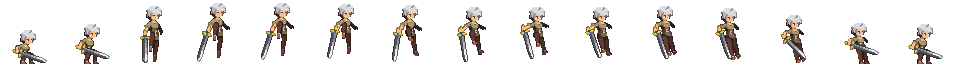
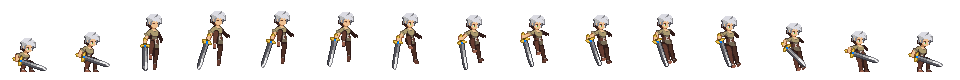
Added full jump animation

diff --git a/character.cpp b/character.cpp
@@ -5,6 +5,7 @@ character::character(){
     // Flags
     isMoving = false;
     isOnGround = false;
+    jumpCeiling = false;
     isInJump = false;
 
     // Animation variables
@@ -14,14 +15,14 @@ character::character(){
     stopCounter = {0.f};
     runningTime = {0.f};
     updateTime = {1.f / 8.f};
-    animCorretion = {0.f};
+    animCorrection = {0.f};
 
     // Collision variables
     paddingX = {65.f};
     paddingY = {50.f};
 
     // Gravity
-    gravity = {100.0f};
+    gravity = {200.0f};
 }
 
 // Character tick
@@ -38,7 +39,7 @@ void character::tick(float deltaTime){
 
     moveCharacter(deltaTime);
 
-    if(!isOnGround && !isInJump)
+    if(!isOnGround)
         applyGravity(deltaTime);
     else
         velocity = {};
@@ -51,9 +52,11 @@ void character::updateTex(){
     if (isMoving){
         actualTex = runTex;
         maxFrames = 8;
+        height = runTex.height;
     } else {
         actualTex = idleTex;
         maxFrames = 4;
+        height = idleTex.height;
     }
 
     width = actualTex.width / maxFrames;
@@ -62,7 +65,7 @@ void character::updateTex(){
 // Display character sprite in the window
 void character::renderCharacter(){
     Rectangle source{width * frame, 0.f, width * rightLeft, height};
-    Rectangle dest{worldPos.x - animCorretion, worldPos.y, scale * width, scale * height};
+    Rectangle dest{worldPos.x - animCorrection, worldPos.y, scale * width, scale * height};
     DrawTexturePro(actualTex, source, dest, Vector2{}, 0.f, WHITE);
 }
 
@@ -79,13 +82,29 @@ void character::updateFrame(float deltaTime){
 
 // Change texture direction
 void character::changeDirection(){
-    if(velocity.x < 0.f) {
-        rightLeft = -1.f;
-        animCorretion = 0.f;
-    } else if(velocity.x > 0.f) {
-        rightLeft = 1.f;
-        // Animation correction
-        animCorretion = width / 2;
+    if(isOnGround){
+        if(velocity.x < 0.f) {
+        // On ground left
+            rightLeft = -1.f;
+            animCorrection = 0.f;
+        } else if(velocity.x > 0.f) {
+        // On ground right
+            rightLeft = 1.f;
+            animCorrection = width / 2;
+        }
+    } 
+    
+    if(isInJump){
+        animCorrection = width / 4;
+        // During jump left
+        if(velocity.x < 0.f) {
+            rightLeft = -1.f;
+            animCorrection = width / 4;
+        // During jump right
+        } else if(velocity.x > 0.f || rightLeft == 1.f) {
+            rightLeft = 1.f;
+            animCorrection = -width / 2.5;
+        }
     }
 }
 
@@ -94,7 +113,7 @@ void character::animChangeDelay(float deltaTime){
     stopCounter += deltaTime;
     if(stopCounter >= stopDelay){
         isMoving = false;
-        animCorretion = 0.f;
+        animCorrection = 0.f;
     }
 }
 
@@ -128,7 +147,7 @@ void character::moveCharacter(float deltaTime){
 
         // Update character's variables
         stopCounter = 0.f;
-        isMoving = true;
+        if(velocity.x != 0) isMoving = true;
     } else 
         animChangeDelay(deltaTime);
 
@@ -179,14 +198,17 @@ void character::checkTopCollision(Rectangle terrainCollision){
 
     // Check kollision with terrain and top edge
     if(CheckCollisionRecs(terrainCollision, getCollisionRec()) && 
-        characterBottom <= terrainTop && !isInJump){
+        characterBottom <= terrainTop){
             isOnGround = true;
+            isInJump = false;
+            jumpCeiling = false;
             snapToGround(terrainCollision);
-        }
-    else 
-        isOnGround = false;
+        } else 
+            isOnGround = false;
 
     DrawText(TextFormat("Ground: %s", isOnGround ? "TRUE" : "FALSE"), 0,0,20, RED);
+    DrawText(TextFormat("Ground: %2.f", characterBottom), 0,80,20, RED);
+    DrawText(TextFormat("Ground: %2.f", terrainTop), 0,100,20, RED);
 }
 
 // Return charater world position

diff --git a/player.cpp b/player.cpp
@@ -31,69 +31,57 @@ player::player(float winWidth, float winHeight) :
 
 // Player tick
 void player::tick(float deltaTime){
-    bool wasOnGround = isOnGround;
 
     // Keyboard movement
     if(IsKeyDown(KEY_A)) velocity.x -= 1.f;
     if(IsKeyDown(KEY_D)) velocity.x += 1.f;
-    if(IsKeyDown(KEY_W) && isOnGround) isInJump = true;
+    if(IsKeyDown(KEY_W) && isOnGround) {
+        isInJump = true;
+        frame = 0;
+    }
 
-    if(isInJump) jump(deltaTime);
+    if(isInJump && !jumpCeiling) jump(deltaTime);
     updateTex();
     character::tick(deltaTime);
-
-    if (!wasOnGround && isOnGround)
-        landingTimer = 0.f;
 }
 
 void player::updateTex(){
-    if(!isOnGround){
-        actualTex = fallTex;
-        maxFrames = 3;
-        frame = 0;
-        width = actualTex.width / maxFrames;
-        landingTimer = 0.f;
 
-    } else if (landingTimer < landingDuration) {
-        actualTex = fallTex;
-        maxFrames = 3;
-        frame = static_cast<int>((landingTimer / landingDuration) * 2.f);
-
-        if(frame >  2) frame = 2;
-
-        width = actualTex.width / maxFrames;
-        landingTimer += GetFrameTime();
-
+    if(isInJump && !isOnGround){
+        if(!isOnGround){
+            actualTex = jumpTex;
+            maxFrames = 15;
+            height = jumpTex.height;
+            width = jumpTex.width / maxFrames;
+        }
     } else
         character::updateTex();
 }
 
 // Fall collision
 Rectangle player::getCollisionRec(){
-        if(actualTex.id == fallTex.id)
+        if(actualTex.id == jumpTex.id)
             characterRec = {
-                worldPos.x + paddingX - width / 4,
+                worldPos.x + paddingX,
                 worldPos.y + paddingY,
                 width * scale - paddingX * 2,
                 height * scale - paddingY * 2
             };
         else
             character::getCollisionRec();
-    
     return characterRec;
 }
 
 // Jump method
 void player::jump(float deltaTime){
-    isOnGround = false;
-
     jumpTime += deltaTime;
+
     if(jumpTime <= maxJumpTime){
         velocity.y = jumpForce;
         jumpForce = jumpForce + 15;
     } else {
-        isInJump = false;
-        jumpForce = -600.f;
+        jumpCeiling = true;
+        jumpForce = -800.f;
         jumpTime = 0.f;
     }
 }

diff --git a/character.hpp b/character.hpp
@@ -5,12 +5,13 @@ class character{
         // Flags
         bool isMoving;
         bool isOnGround;
+        bool jumpCeiling;
         bool isInJump;
 
         // Animation variables
         int frame;                  
         int maxFrames;
-        float animCorretion;     
+        float animCorrection;     
         float rightLeft;   
         float runningTime; 
         float stopDelay;

diff --git a/player.hpp b/player.hpp
@@ -1,3 +1,4 @@
+#include <cmath>
 #include "raylib.h"
 #include "character.hpp"
 
